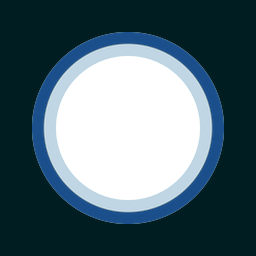
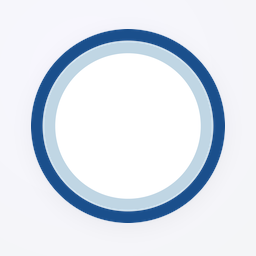
Remove pricing tiers from App Store listing
In the Odoo App Store frame, this addon is just "free". Pricing for
the external MCP Pro SaaS belongs on pantalytics.com, not here -
users follow the plain-text URL when they're ready to register.

diff --git a/pan_mcp_pro_governance/static/description/index.html b/pan_mcp_pro_governance/static/description/index.html
@@ -65,7 +65,7 @@
       <div class="col-md-4 text-center">
         <h4>1. Connect your Odoo</h4>
         <p>
-          Sign in with Google or Microsoft on the MCP Pro server (5-minute setup, free tier available). Point it at your Odoo Online, Odoo.sh or on-premise instance.
+          Sign in with Google or Microsoft on the MCP Pro server (5-minute setup). Point it at your Odoo Online, Odoo.sh or on-premise instance.
         </p>
       </div>
       <div class="col-md-4 text-center">
@@ -82,10 +82,7 @@
       </div>
     </div>
     <p class="oe_mt32 text-center">
-      Free tier: 50 calls/day. Pro: &euro;25/user/month, 500 calls/day, 30-day free trial. Open source, EU-hosted.
-    </p>
-    <p class="text-center">
-      Server &amp; pricing: pantalytics.com/apps/odoo-mcp-server
+      Open source, EU-hosted. More on the server: pantalytics.com/apps/odoo-mcp-server
     </p>
   </div>
 </section>

diff --git a/pan_mcp_pro_governance/__manifest__.py b/pan_mcp_pro_governance/__manifest__.py
@@ -13,11 +13,10 @@
         or Microsoft Copilot. Works on desktop and mobile. Works on Odoo
         Online, Odoo.sh and on-premise.
 
-        The MCP Pro server runs outside Odoo (5-minute setup, free tier
-        available, EU-hosted). This addon installs *inside* your Odoo and
-        gives operators what the server alone cannot: a first-class registry
-        of every AI agent, an append-only audit trail, and a per-request
-        API call log.
+        The MCP Pro server runs outside Odoo (5-minute setup, EU-hosted).
+        This addon installs *inside* your Odoo and gives operators what
+        the server alone cannot: a first-class registry of every AI agent,
+        an append-only audit trail, and a per-request API call log.
 
         Why this module?
         ----------------
@@ -70,7 +69,7 @@
     "website": "https://www.pantalytics.com/apps/mcp-pro-governance/",
     "support": "support@pantalytics.com",
     "category": "Productivity",
-    "version": "19.0.1.0.1",
+    "version": "19.0.1.0.2",
     "license": "LGPL-3",
     "depends": [
         "base",

diff --git a/pan_mcp_pro_governance/static/description/ICON_SPEC.md b/pan_mcp_pro_governance/static/description/ICON_SPEC.md
@@ -1,50 +1,48 @@
 # Icon and banner — design brief
 
-Two assets ship with the App Store listing. A baseline pair generated
-from the Pantalytics brand kit (hollow blue ring on a dark tile) lives
-in this directory now; this brief is for the *replacement* set that a
-designer should produce before v1.0.
+Two assets ship with the App Store listing. The current set matches
+the **light theme** of `pantalytics.com/apps/odoo-mcp-server`: a soft
+white-to-lavender gradient with the original blue-ring brand mark.
 
-## Brand palette (current)
+Regenerate with `python3 .local/regen_assets.py` (script lives at the
+repo root, gitignored).
 
-Source: `pantalytics-brand/public/downloads/pantalytics-colors.css`.
+## Brand palette (light theme — used by these assets)
 
-- Background dark: `#001d21` (primary), `#002328` (secondary)
-- Accent: `#9b99ff` (purple) — hover `#7370ff`
-- Text on dark: `#ffffff`, secondary `rgba(255,255,255,0.6)`
+Source: `pantalytics-website/src/styles/global.css` (`@media light` scope).
 
-Older material used navy `#1b3a5c` + gold `#e8a317`; that palette is
-**superseded** for new assets. Existing logo PNGs in the brand kit
-(`icon-blue.png`, `icon-gold.png`) still ship the legacy ring colors
-— use them as the brand mark on the new dark background.
+- Background: `#ffffff` (primary), `#f4f5f7` (secondary), faint lavender wash
+- Accent: `#5b58d8` (purple) — hover `#4a47c4`
+- Text: `#001d21` primary, muted slate for taglines
+- Brand mark: `pantalytics-brand/public/images/logo/icon-blue.png` —
+  dark blue outer ring `#1a4f8c`, light inner ring `#c0d6e4`, white centre.
+
+The dark-theme palette (`#001d21` background + `#9b99ff` accent) still
+exists in the brand kit but is **superseded** for App Store assets so
+they match the public product page.
 
 ## `icon.png`
 
 - **Size:** 256 × 256 px (square)
-- **Format:** PNG, RGBA. May be opaque (dark tile) or transparent.
-- **Style:** simple glyph, single subject, readable at 32 px favicon size
-- **Current baseline:** hollow blue brand ring with white centre on a
-  `#001d21` tile. Reads as a generic Pantalytics tile — fine for v0.x,
-  but every Pantalytics app would look identical. The replacement
-  should add a glyph that distinguishes *this* app from `pan_outlook_pro`
-  and any future Pantalytics modules.
-- **Motif idea:** a shield, badge or lock superimposed on a network /
-  agent node to signal governance of distributed AI actors. Keep it
-  abstract — "key with padlock" reads too much like an auth app.
-- **Don'ts:** no screenshots, no inner text, no gradients, no drop
-  shadows. Must survive flat rendering on the App Store tile.
+- **Format:** PNG, RGBA, opaque
+- **Style:** soft radial gradient (faint lavender highlight top-left
+  → `#f4f5f7` edges) with the blue-ring mark centred at ~76% size and
+  a subtle 4 px / 22 % drop shadow for depth.
+- **Readable at 32 px favicon size.** The gradient survives downscale
+  because it's low-contrast; the ring carries the recognition.
+- **Don'ts:** no screenshots, no inner text, no high-contrast shadows
+  that turn into a hard halo at small sizes.
 
 ## `banner.png`
 
 - **Size:** 1200 × 600 px
 - **Format:** PNG
-- **Content:** wide brand hero above the fold of the App Store
-  description page. The current baseline is the brand mark + product
-  wordmark on the dark background. A replacement could show a
-  dashboard-style composition (agent list left, audit log right) or
-  an abstract pattern with the wordmark.
-- **Palette:** dominant `#001d21`, accent `#9b99ff` in small doses,
-  text white or `rgba(255,255,255,0.6)`.
+- **Composition:** brand mark left (380 px, soft drop shadow), text
+  block right — "MCP Pro" in dark `#001d21`, "AI Governance for Odoo"
+  in accent `#5b58d8`, tagline ("Agent identities · Audit log · API
+  call log") in muted slate.
+- **Background:** vertical gradient white → faint lavender, blended
+  with a top-right radial purple wash for depth.
 
 ## Where they're referenced
 

diff --git a/CHANGELOG.md b/CHANGELOG.md
@@ -3,6 +3,13 @@
 All notable changes to this module are documented here. Format loosely
 follows [Keep a Changelog](https://keepachangelog.com/).
 
+## [19.0.1.0.2] - 2026-05-08
+
+### Changed
+- Removed pricing tiers from the App Store listing and manifest
+  description. The Odoo App Store frame is "free addon" - users
+  discovering the SaaS register on pantalytics.com themselves.
+
 ## [19.0.1.0.1] - 2026-05-08
 
 ### Changed
